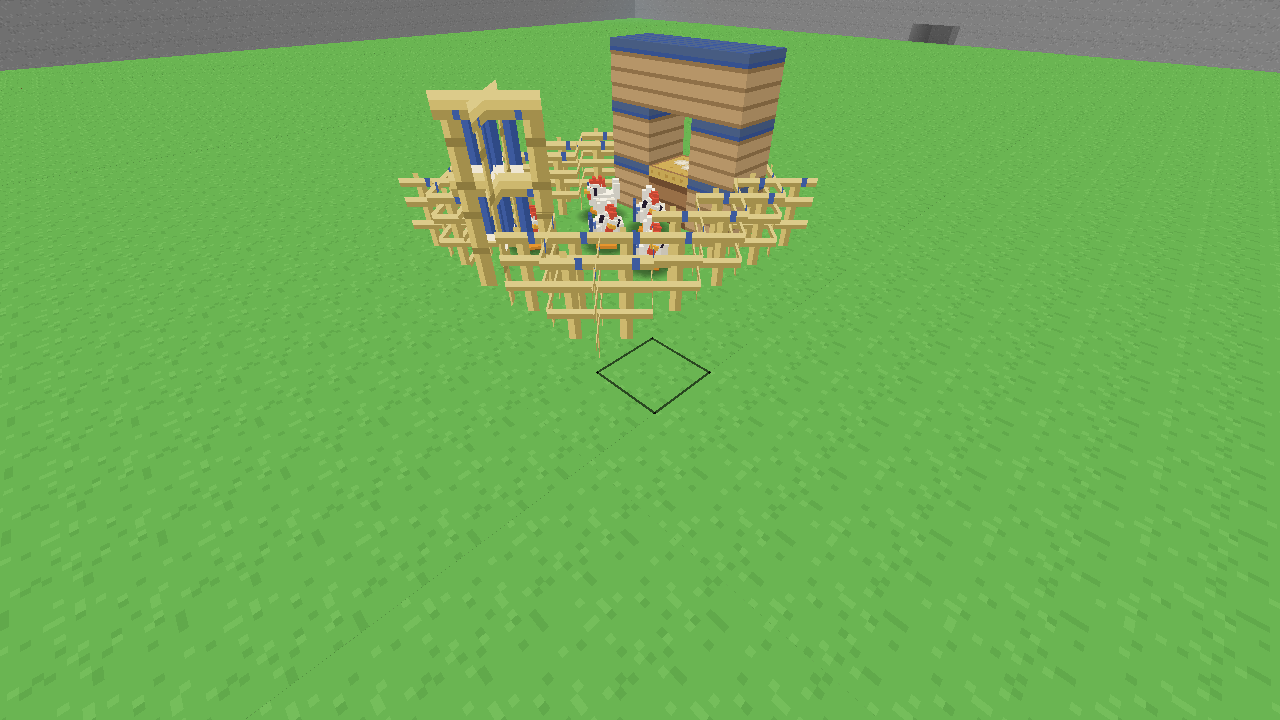
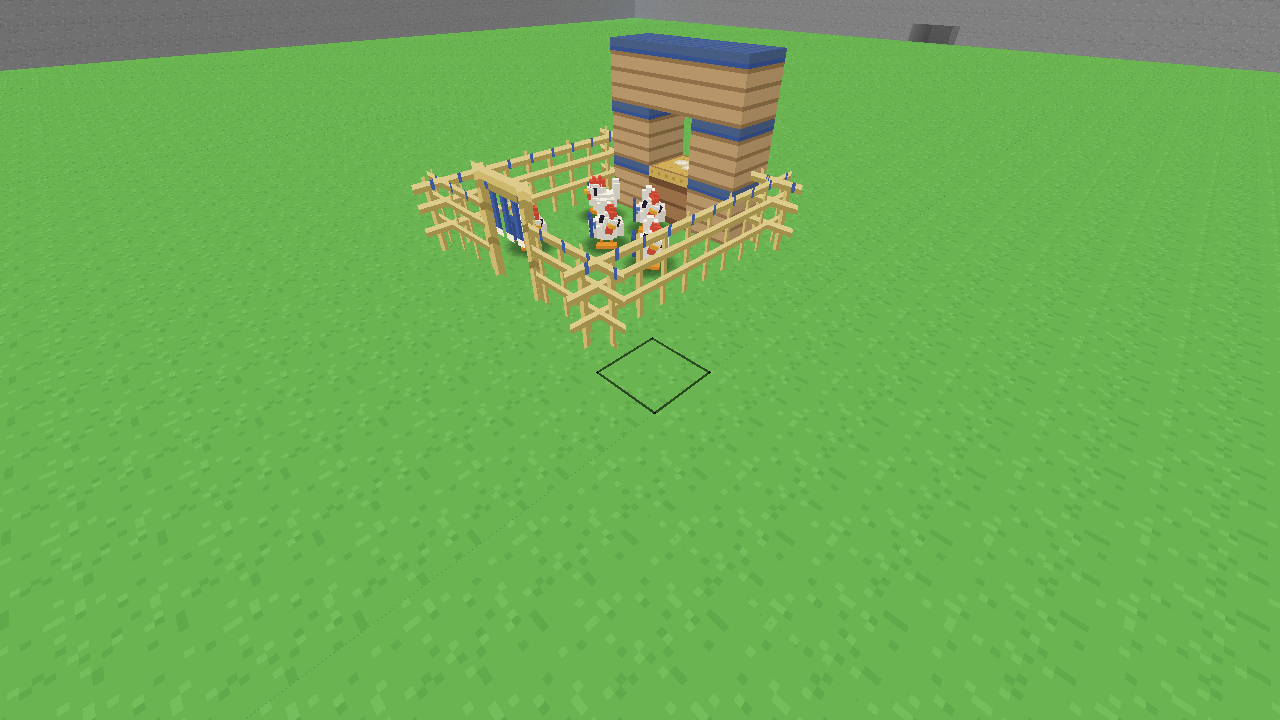
feat(LIVE-2.1): とりごや の さく・もん を さく の 線 に そう 板 に 直す（試作）
Claude-Session: https://claude.ai/code/session_01VZt9Ej7aRghosAFkVdwAwt

Changed region(s): [[0.3125, 0.1222, 0.6562, 0.4889]]

diff --git a/src/world/render/meshChunk.ts b/src/world/render/meshChunk.ts
@@ -289,6 +289,78 @@ export function pushCross(mesh: MeshData, x: number, y: number, z: number, tile:
   }
 }
 
+const COOP_IDS: ReadonlySet<string> = new Set(['toriya_fence', 'toriya_gate', 'toriya_nest', 'toriya_box']);
+const FENCE_I = BLOCK_TYPES.findIndex((t) => t.id === 'toriya_fence');
+const GATE_I = BLOCK_TYPES.findIndex((t) => t.id === 'toriya_gate');
+export function isCoopLineIndex(b: number): boolean {
+  return b === FENCE_I || b === GATE_I;
+}
+
+/** 板 1 まい（両面）。底の 2 点 (ax,az)→(bx,bz)、高さ h、絵の UV の 四角 */
+function pushPanel(
+  mesh: MeshData, y: number, h: number, ax: number, az: number, bx: number, bz: number,
+  uv: [number, number, number, number], sky: number, blk: number,
+): void {
+  for (let side = 0; side < 2; side++) {
+    const base = mesh.positions.length / 3;
+    const [px, pz, qx, qz] = side === 0 ? [ax, az, bx, bz] : [bx, bz, ax, az];
+    const corners: [number, number, number][] = [[px, pz, 0], [qx, qz, 0], [qx, qz, 1], [px, pz, 1]];
+    for (let i = 0; i < 4; i++) {
+      const [cx, cz, vy] = corners[i];
+      mesh.positions.push(cx, y + vy * h, cz);
+      const c = CORNER_UV[i];
+      mesh.uvs.push(c[0] === 0 ? uv[0] : uv[2], c[1] === 0 ? uv[1] : uv[3]);
+      mesh.colors.push(1, 1, 1);
+      mesh.lights.push(sky, blk);
+      mesh.darks.push(0);
+    }
+    mesh.indices.push(base, base + 1, base + 2, base, base + 2, base + 3);
+    mesh.faceCount++;
+  }
+}
+
+/**
+ * LIVE-2.1 B「たけ の よつめがき」: さく・もん は マスの まん中 に、さく の 線 の 向き の 板 1 まい。
+ * 向き は となりの 小屋 ブロック（さく・もん・ねぐら・すばこ）で 決める（すみ は 2 まい で L）。
+ * もん は 1.5 マス はば の 板 ＋ 両がわ の くい（直角 の 細い 板）。もん の 上 の マス は 描かない。
+ * 描いたら true。
+ */
+export function pushCoopPanels(
+  mesh: MeshData, world: { getIndex(x: number, y: number, z: number): number },
+  x: number, y: number, z: number, b: number, sky: number, blk: number,
+): boolean {
+  if (!isCoopLineIndex(b)) return false;
+  if (world.getIndex(x, y - 1, z) === b) return true; // 2 マス の もん の 上
+  const near = (dx: number, dz: number) => COOP_IDS.has(BLOCK_TYPES[world.getIndex(x + dx, y, z + dz)]?.id ?? '');
+  let alongX = near(1, 0) || near(-1, 0);
+  const alongZ = near(0, 1) || near(0, -1);
+  if (!alongX && !alongZ) alongX = true;
+  const cx = x + 0.5;
+  const cz = z + 0.5;
+  if (b === GATE_I) {
+    const gx = !(alongZ && !alongX); // もん の 板 は 線 の 向き。たて 線 なら z 方向
+    const uv = tileUv('toriya_gate_x');
+    const w = 0.75;
+    if (gx) pushPanel(mesh, y, 1.8, cx - w, cz, cx + w, cz, uv, sky, blk);
+    else pushPanel(mesh, y, 1.8, cx, cz - w, cx, cz + w, uv, sky, blk);
+    // くい（直角 の 細い 板。絵 の 左右 の はしら の 3 ドット）
+    const postL = tileSubUv('toriya_gate_x', 1, 0, 4, 16);
+    const postR = tileSubUv('toriya_gate_x', 13, 0, 16, 16);
+    const o = 0.56;
+    const t = 3 / 32;
+    for (const [sgn, puv] of [[-1, postL], [1, postR]] as const) {
+      if (gx) pushPanel(mesh, y, 1.8, cx + sgn * o, cz - t, cx + sgn * o, cz + t, puv, sky, blk);
+      else pushPanel(mesh, y, 1.8, cx - t, cz + sgn * o, cx + t, cz + sgn * o, puv, sky, blk);
+    }
+    return true;
+  }
+  const uv = tileUv('toriya_fence_x');
+  const h = 12 / 9;
+  if (alongX) pushPanel(mesh, y, h, cx - 0.5, cz, cx + 0.5, cz, uv, sky, blk);
+  if (alongZ) pushPanel(mesh, y, h, cx, cz - 0.5, cx, cz + 0.5, uv, sky, blk);
+  return true;
+}
+
 /**
  * `hide`: true を 返した マス の 十字の板 は 描かない（なでた ゆれ の 間、専用メッシュ で 描くため）。
  */
@@ -313,6 +385,10 @@ export function meshChunk(
         if (b === AIR) continue;
         if (isTorchIndex(b)) {
           pushTorch(opaque, x, y, z, BLOCK_TYPES[b].id as TileName, light ? light.skyAt(x, y, z) / LIGHT_MAX : 1);
+          continue;
+        }
+        if (isCoopLineIndex(b)) {
+          pushCoopPanels(opaque, world, x, y, z, b, light ? light.skyAt(x, y, z) / LIGHT_MAX : 1, light ? light.blockAt(x, y, z) / LIGHT_MAX : 0);
           continue;
         }
         if (isCrossIndex(b)) {

diff --git a/src/world/render/voxel/sectionExtras.ts b/src/world/render/voxel/sectionExtras.ts
@@ -7,7 +7,7 @@ import type { WorldLight } from '../../light/WorldLight';
 import type { ArrayVoxelWorld } from '../../VoxelWorld';
 import { isKotatsuBlock } from '../../blocks/kotatsu';
 import { pushKotatsuCell } from '../kotatsuMesh';
-import { FACES, LIGHT_MAX, RIPE_FLAG, TILE_UV, crossTileName, emptyMesh, pushCross, pushFace, pushTorch, type MeshData } from '../meshChunk';
+import { FACES, LIGHT_MAX, RIPE_FLAG, TILE_UV, crossTileName, emptyMesh, isCoopLineIndex, pushCoopPanels, pushCross, pushFace, pushTorch, type MeshData } from '../meshChunk';
 
 /**
  * セクション 1 つぶんの「絵（atlas）で描くもの」: たいまつ・十字の板（作物・やせいの やさい・かかし・さく）・
@@ -45,6 +45,10 @@ export function meshSectionExtras(
         if (b <= AIR) continue;
         if (isTorchIndex(b)) {
           pushTorch(opaque, x, y, z, BLOCK_TYPES[b].id as TileName, light ? light.skyAt(x, y, z) / LIGHT_MAX : 1);
+          continue;
+        }
+        if (isCoopLineIndex(b)) {
+          pushCoopPanels(opaque, world, x, y, z, b, light ? light.skyAt(x, y, z) / LIGHT_MAX : 1, light ? light.blockAt(x, y, z) / LIGHT_MAX : 0);
           continue;
         }
         if (isCrossIndex(b)) {
